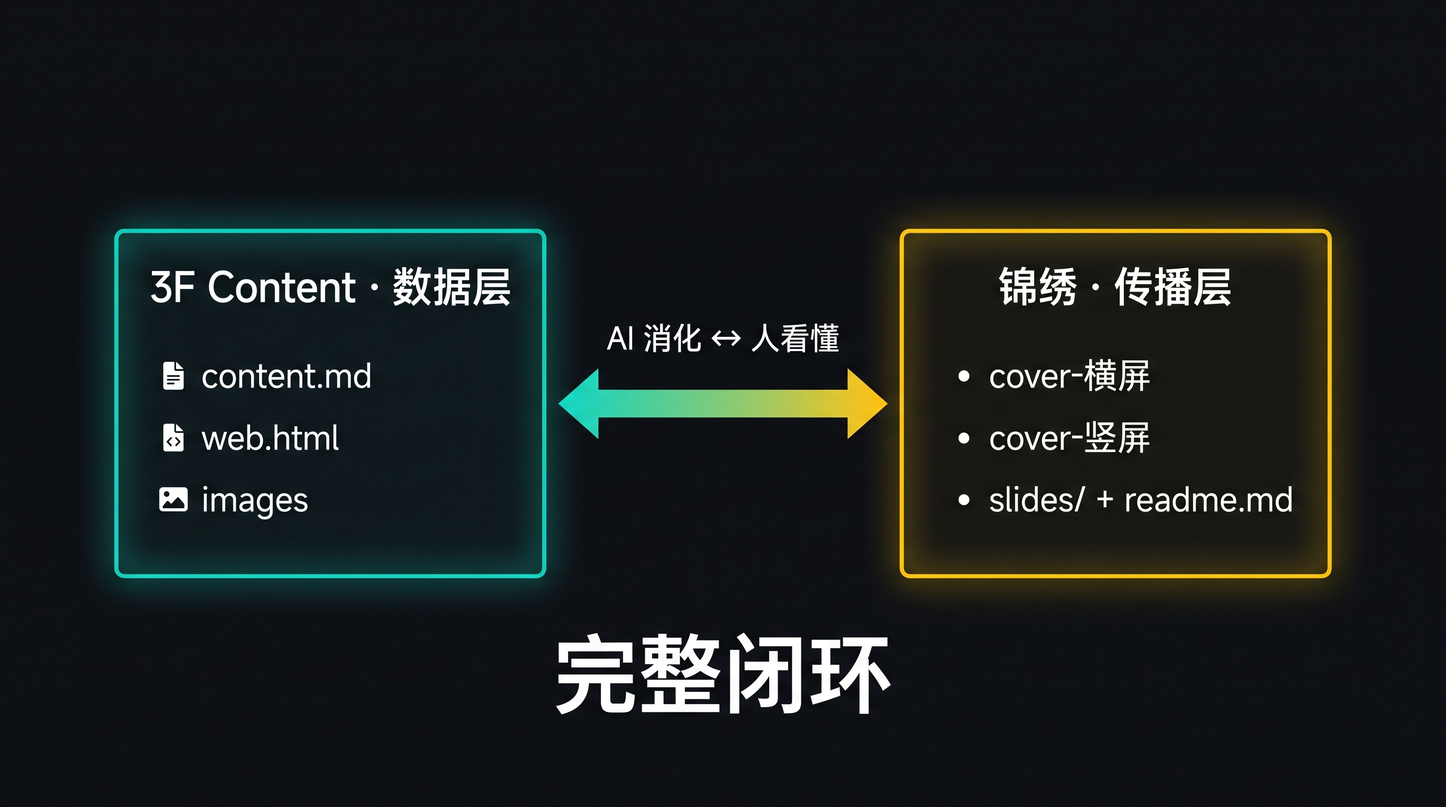
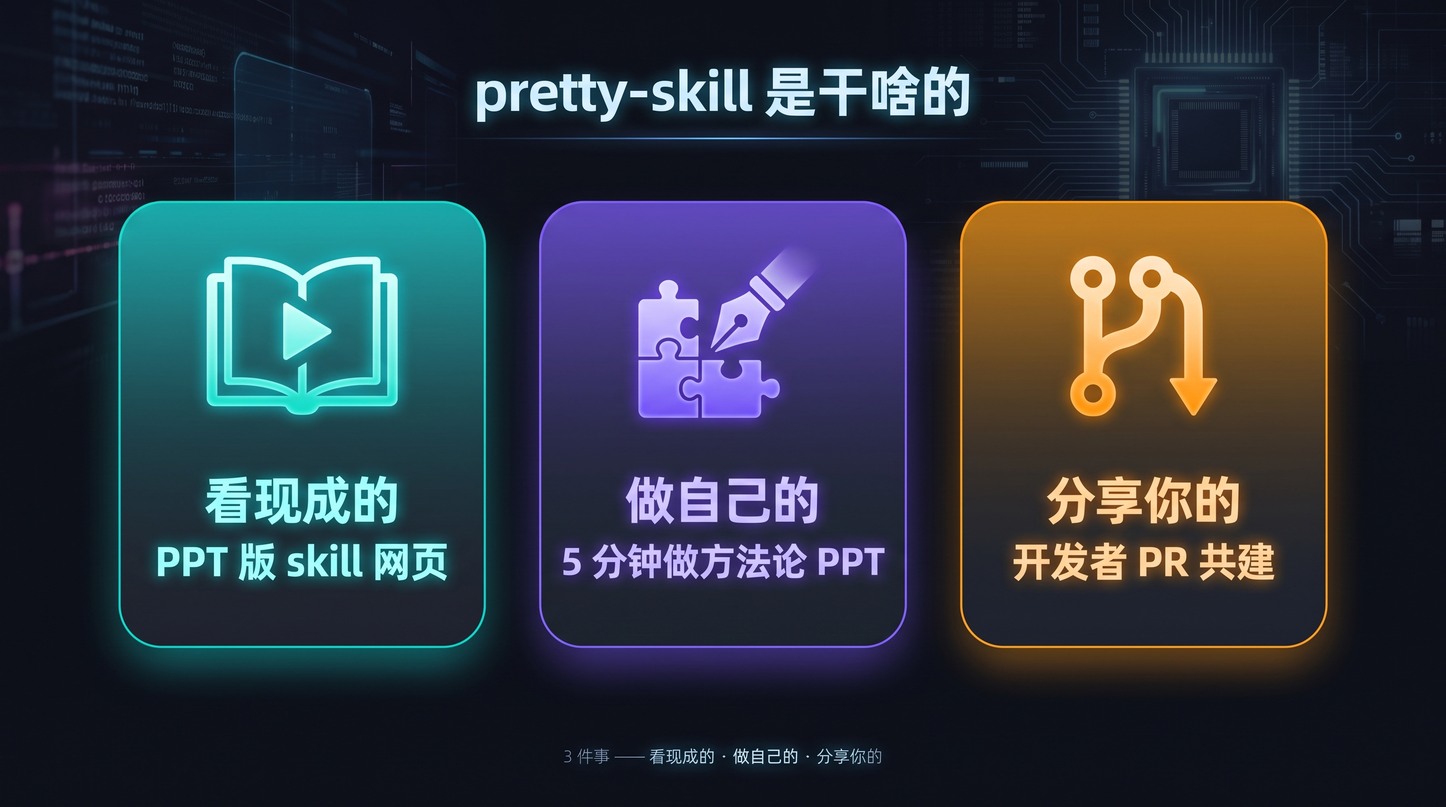
v3.5 README 说人话版 + 4 作用图重出 + 收口范式中二表述
触发：用户反馈「图里很多表达太中二」「cover-横屏 不能直接讲封面-横屏 吗」「全球共建 改为开发者PR共建」「简单易懂 + 叙事感 + 诙谐感」

## 主要改动

**README.md · 完全说人话重写**（111 行 → 111 行但结构重组）
- 标题：全球优质技能与知识集合 → 让技能和知识被人看懂
- 删除「项目哲学」「范式」两段抽象描述
- 新增 4 个作用 + 1 个愿景（用户原话照搬）：
  - 1. 看现成的（读）
  - 2. 做自己的（创建）
  - 3. 分享你的（提 PR）
  - 4. 最终愿景（学一下 XXX + 私密 ignore + 参与的人越多越好用）
- License「全球开发者共建」→「开发者PR共建」

**assets/ · 3 张配图重出（说人话版）**
- readme-2-what.png: 3 块「AI友好/人易传播/全球共建」→「看现成的/做自己的/分享你的」(deep tech 16:9 2K)
- readme-3-actions.png: 新图（4 个作用 + 1 个愿景的 2x2+1 布局，含「学一下 XXX」badge）
- readme-6-vision.png: 新图（愿景：左边装 100 个工具 vs 右边装 1 个 pretty-skill 的强对比，neon emerald green）
- 旧图移到 _legacy/（readme-3-paradigm.png, readme-6-compare.png 备份）

**STRUCTURE.md**
- 「面向中文开发者 + 玩家 + 全球共建」→「+ 开发者PR共建」
- 「v3 预设 · 全球共建」→「v3 预设 · 开发者PR共建」

**PROMOTION.md + CONTRIBUTING.md**
- 「(4 形态：cover + 9图 + PPT + 视频脚本)」→「(4 形态：封面 + 9图 + PPT + 视频脚本)」（避免用 filename 作为 narrative 名）
- 文件路径引用（锦绣/cover-横屏.png）保留——技术规范文档需要真名

**content-triple-format/锦绣.md**
- 「全球共建」→「开发者PR共建」（第 254 行 GitHub Actions merge 说明）

## 不动
- STRUCTURE.md 文件树视图里的 cover-横屏.png 文件名（technical 真名）
- check-3f.py 文件名校验（脚本需要 hardcode）
- _模板 目录（creator 用到的素材名）

## 后续
- 让 @Kun 看看说什么
- 验证 GitHub README 渲染是否 OK

diff --git a/README.md b/README.md
@@ -1,39 +1,63 @@
-# Pretty Skill · 全球优质技能与知识集合
+# Pretty Skill · 让技能和知识被人看懂
 
 > ### 💎 大量优秀的 skill 或知识做出来，没人用，因为没人看得懂。
 >
-> 这个项目**从不追求快速生成 SOP**。各位多花几分钟，生成能讲解清楚你的 skill 或知识的图片、封面、pptx、html，**方便人看和学**，才是一直被忽视的重要东西。
+> 这个项目就是来解决这个的。**多花 5 分钟讲清楚，比快速生成 100 份强 100 倍**。
 
 [English](./README_en.md) · 简体中文
 
 ![Pretty Skill · 项目是什么](assets/readme-2-what.png)
 
-**pretty-skill** = 开源项目 · 集合全世界开发者与玩家贡献的优质技能 / 知识 · 按 **3F Content + 锦绣** 范式发布，让任何知识**被 AI 消化 + 被人看懂 + 被人传播**。
+**pretty-skill** 是一个**开源项目**：把全世界开发者做出来的优质 skill 和知识，整理成**好看 + 好读**的形式，让你能**快速看懂 + 直接用**。
 
 ---
 
-## 💎 项目哲学
+## 🎯 这个项目能干啥？
 
-> **清晰 > 速度 · 让人看得懂 > 快速生成**
+![4 个作用 + 1 个愿景](assets/readme-3-actions.png)
 
-之前的 AI 工具追求"自动化"和"快速生成"——但这恰恰是**优秀知识没人用的根因**。**多花 5 分钟讲清楚 = 100 倍可懂性提升**。
+### 1. 看现成的（读）
 
-![之前 vs 现在 · 多花 5 分钟讲清楚](assets/readme-6-compare.png)
+项目里有人做好了**各种 skill 和知识**，还都配上了**对应的 PPT**（PPT 版 HTML）。
+打开 `web.html` → 翻页 → 学。
+不用看 PDF / Word 找半天。
+
+### 2. 做自己的（创建）
+
+想做方法论卡片给团队看？不用从零开始。
+Fork 仓库 → 复制模板 → 填内容 → AI 自动出图 → 自动生成 PPT。
+**5 分钟做出一个能分享的方法论**。
+
+### 3. 分享你的（提 PR）
+
+有什么好方法想分享？提个 PR，**开发者们都能用你的智慧**。
+仓库主审核 → 全球共享。
+
+> **范式参考**：每个 case 都按 **3F Content + 锦绣** 发布——
+> - **3F Content** = AI 友好（`content.md` 喂 LLM · `web.html` PPT 演示版）
+> - **锦绣** = 方便分享（横竖封面 + 8-12 讲解图 + 1 融合 md）
+>
+> [详细规范 →](./content-triple-format/README.md) · [锦绣 →](./content-triple-format/锦绣.md) · [PPT 版 HTML →](./content-triple-format/ppt-html-spec.md)
 
 ---
 
-## 🎯 范式：3F Content + 锦绣
+## 🌟 未来理想 · 这个项目的最终愿景
 
-![范式：3F Content + 锦绣](assets/readme-3-paradigm.png)
+![愿景 · 1 个项目代替所有工具](assets/readme-6-vision.png)
 
-- **3F Content** = AI 友好（`content.md` 喂 LLM · `web.html` PPT 演示版）
-- **锦绣** = 人易传播（2 封面 + 8-12 讲解图 + 1 融合 md）
+> **你再也不需要为每个新知识装一个新工具。**
+> **只需要装一个 pretty-skill。**
 
-[详细规范 →](./content-triple-format/README.md) · [锦绣 →](./content-triple-format/锦绣.md) · [PPT 版 HTML →](./content-triple-format/ppt-html-spec.md)
+下次你想学啥，**对 agent 说"学一下 XXX"**。
+agent 自动从 pretty-skill 找相关知识，更新进你的项目。
+**私密知识直接 ignore**。
+
+**人们只需要维护一个项目。**
+**参与的人越多，整个项目越好用。**
 
 ---
 
-## 📚 11 领域（中文一级目录 · 全球共建）
+## 📚 11 个领域（涵盖啥）
 
 ![11 领域一览](assets/readme-4-domains.png)
 
@@ -82,6 +106,6 @@
 
 ## 📜 License
 
-[MIT](./LICENSE) · 提 Issue / 提 PR · 全球开发者共建
+[MIT](./LICENSE) · 提 Issue / 提 PR · **开发者PR共建**。
 
 <sub>项目哲学：清晰 > 速度 · 各位多花 5 分钟讲清楚 = 100 倍可懂性提升</sub>

diff --git a/STRUCTURE.md b/STRUCTURE.md
@@ -2,7 +2,7 @@
 
 > **TL;DR**：v3 结构 = **11 个中文领域一级目录** + **3F Content + 锦绣范式** + **skill-creator 自动化工具**。
 >
-> 一句话：**面向中文开发者 + 玩家 + 全球共建** 的开源项目。
+> 一句话：**面向中文开发者 + 玩家 + 开发者PR共建** 的开源项目。
 
 ---
 
@@ -60,7 +60,7 @@ pretty-skill/
 
 ---
 
-## 🎯 11 领域分类（v3 预设 · 全球共建）
+## 🎯 11 领域分类（v3 预设 · 开发者PR共建）
 
 | # | 领域（一级目录）| 范围 |
 |---|---|---|

diff --git a/PROMOTION.md b/PROMOTION.md
@@ -96,7 +96,7 @@ v3 核心跃迁：从"对 AI 友好的中文 skill 仓库" → "开源 + 全球 
 
 1. 范式升级：3F Content + 锦绣
    - 3F Content（v1-v2）：给 AI 看（.md + .pptx + .html）
-   - 锦绣（v3）：给人看（4 形态：cover + 9图 + PPT + 视频脚本）
+   - 锦绣（v3）：给人看（4 形态：封面 + 9图 + PPT + 视频脚本）
    - 一起 = 知识既被 AI 消化又被人传播
 
 2. 领域升级：2 → 11 领域

diff --git a/CONTRIBUTING.md b/CONTRIBUTING.md
@@ -65,7 +65,7 @@ cd "<11 领域之一>/<你的-case-名>"
 # - 准备 images/（用 matrix / DALL-E / Midjourney 出 N 张图）
 # - 跑 build_pptx.py 生成 output/<case_name>.pptx
 # - 改 web.html（用 html-ppt-viewer 模板）
-# - 生成 锦绣/（4 形态：cover + 9图 + PPT + 视频脚本）
+# - 生成 锦绣/（4 形态：封面 + 9图 + PPT + 视频脚本）
 ```
 
 **推荐用 skill-creator 自动化**（未来 v3.1）：

diff --git a/content-triple-format/锦绣.md b/content-triple-format/锦绣.md
@@ -251,7 +251,7 @@ pretty-skill create \
    ↓
 4. 跑 check-3f.py 验证                                     ← 自动化校验
    ↓
-5. 提 PR → GitHub Actions 自动跑 → merge                 ← 全球共建
+5. 提 PR → GitHub Actions 自动跑 → merge                 ← 开发者PR共建
    ↓
 6. creator 拿到完整锦绣素材 → 自由决定发哪（朋友圈/小红书/抖音/...）
 ```
